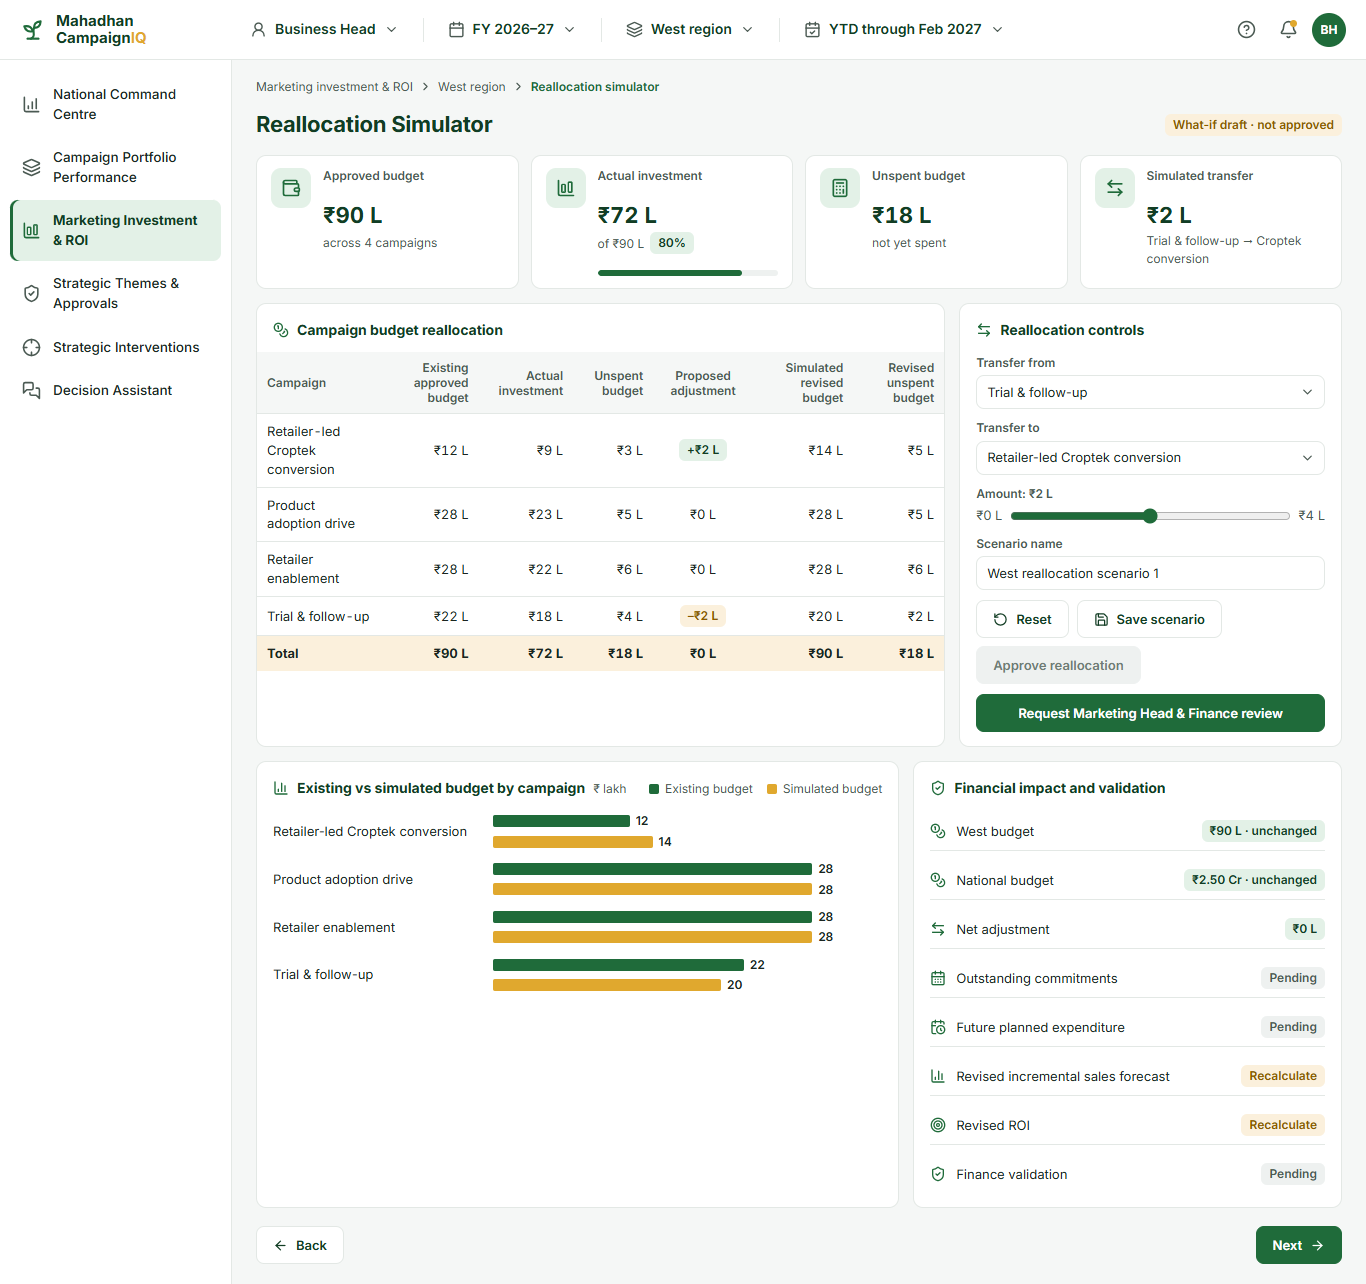
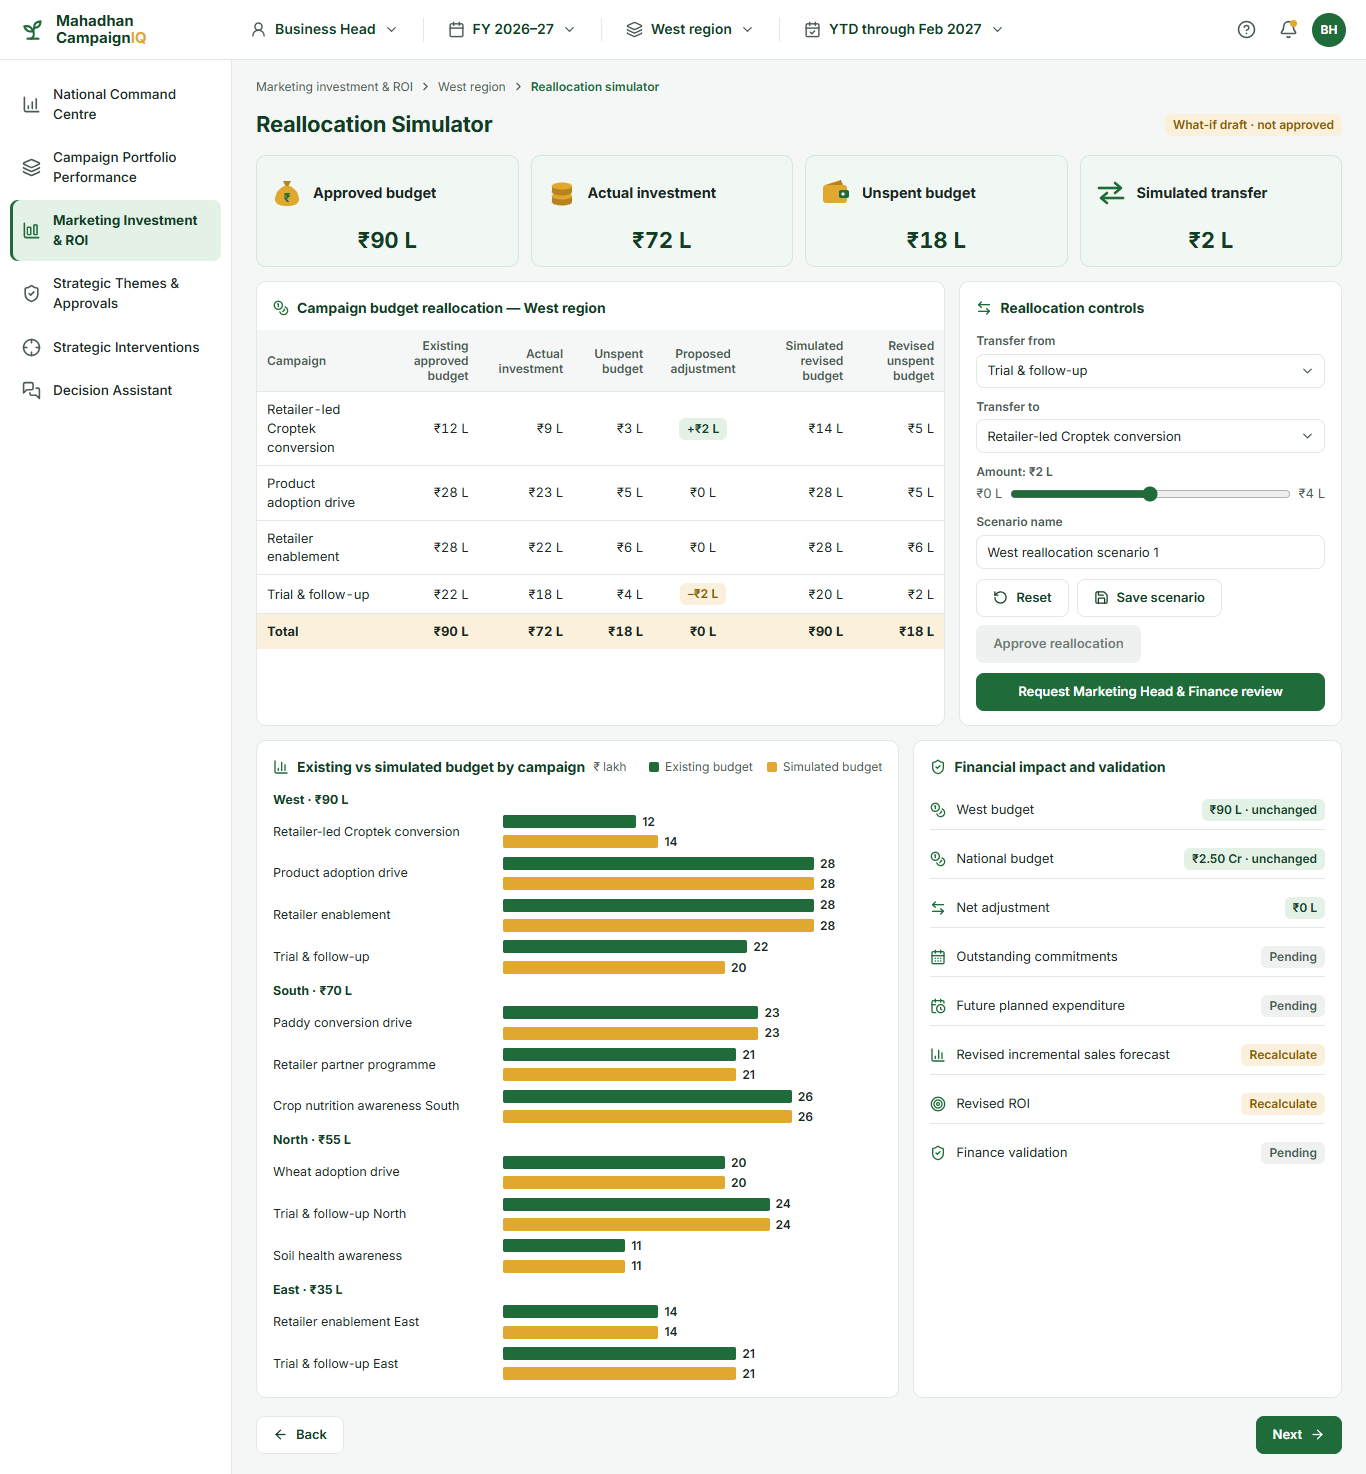
BH: reallocation across all regions

diff --git a/campaigniq-v3/src/screens/Investment.tsx b/campaigniq-v3/src/screens/Investment.tsx
@@ -2,20 +2,20 @@
  * Screens 7–10 — Marketing Investment & ROI (BH.3a.png), Campaign Investment (BH.3b.png),
  * Commercial Returns (BH.3d.png), Reallocation Simulator (BH.3e.png).
  */
-import { ArrowLeftRight, CalendarClock, CalendarDays, ChartColumn, Coins, FileSearch, Percent, RotateCcw, Save, Scale, ShieldCheck, ShoppingCart, Target, TrendingUp, Users } from 'lucide-react';
+import { ArrowLeftRight, ChevronDown, CalendarClock, CalendarDays, ChartColumn, Coins, FileSearch, Percent, RotateCcw, Save, Scale, ShieldCheck, ShoppingCart, Target, TrendingUp, Users } from 'lucide-react';
 import { useState, type ReactNode } from 'react';
 import { useSearchParams } from 'react-router-dom';
 import {
   businessCase, CAMPAIGNS, nationalReturns, netRoi, regionRoi, campaignById, campaignMetrics, campaignsOf, campaignTotals, CROP_MIX, DEFAULT_REALLOCATION, NATIONAL, NATIONAL_METRICS,
-  PRODUCT_MIX, REGIONS, regionById, regionMetrics, THEMES, type Campaign, type CampaignId, type MixRow, type RegionId,
+  PRODUCT_MIX, ALL_CAMPAIGNS, planCampaign, planCampaignsOf, type PlanCampaign, REGIONS, regionById, regionMetrics, THEMES, type CampaignId, type MixRow, type RegionId,
 } from '../data/bh';
 import { crore, lakh, num, pct, rupees, sum, times } from '../data/format';
 import { R } from '../routes';
 import { useBhStore } from '../store/bhStore';
 import { RegionBarsCard } from './RegionBars';
 import { SERIES } from '../theme';
-import { GroupedBars, HBars, Legend, Waterfall } from '../ui/charts';
-import { Bar, Breadcrumb, Button, Card, FilterBar, FooterBar, KpiCard, PageHeader, SegmentedControl, Select, StatusChip } from '../ui/core';
+import { GroupedBars, Legend, Waterfall } from '../ui/charts';
+import { Bar, Breadcrumb, Button, Card, FilterBar, FooterBar, KpiCard, PageHeader, SegmentedControl, StatusChip } from '../ui/core';
 import { DataTable } from '../ui/DataTable';
 import { EvidenceDrawer, type Evidence } from '../ui/overlay';
 import { ALL, CAMPAIGN_OPTIONS, CROP_OPTIONS, PRODUCT_OPTIONS, REGION_OPTIONS, THEME_OPTIONS, useDrillRegion, useGo, useRouteRegion, useScopeFilter } from './common';
@@ -311,25 +311,39 @@ export function CommercialReturns() {
 export function Reallocation() {
   const go = useGo();
   const store = useBhStore();
-  const region = useRouteRegion();
-  const r = regionById(region);
-  const camps = campaignsOf(region);
-  const saved = store.scenarios.find((s) => s.region === region);
-  const start = saved ?? { ...DEFAULT_REALLOCATION, region, name: `${r.name} reallocation scenario 1` };
-  const [from, setFrom] = useState<CampaignId>(start.from);
-  const [to, setTo] = useState<CampaignId>(start.to);
+  const routeRegion = useRouteRegion();
+  const unspentOf = (c: PlanCampaign) => c.approved - c.actual;
+  const defaultsFor = (rg: RegionId) => {
+    if (rg === DEFAULT_REALLOCATION.region) return { from: DEFAULT_REALLOCATION.from as string, to: DEFAULT_REALLOCATION.to as string, amount: DEFAULT_REALLOCATION.amount };
+    const cs = planCampaignsOf(rg);
+    return { from: cs[0].id, to: cs[1].id, amount: Math.min(2, unspentOf(cs[0])) };
+  };
+  const saved = store.scenarios.find((s) => s.region === routeRegion);
+  const start = saved ?? defaultsFor(routeRegion);
+  const [from, setFrom] = useState<string>(start.from);
+  const [to, setTo] = useState<string>(start.to);
   const [amount, setAmount] = useState(start.amount);
-  const [name, setName] = useState(saved?.name ?? `${r.name} reallocation scenario 1`);
-  if (!camps.length) return <div className="page"><PageHeader title="Reallocation Simulator" /><StatusChip tone="neutral">Campaign-level records pending</StatusChip><FooterBar onBack={() => go(R.returns(region))} onNext={() => go(R.opportunity)} /></div>;
+  const [name, setName] = useState(saved?.name ?? `${regionById(routeRegion).name} reallocation scenario 1`);
+  const [hover, setHover] = useState<{ text: string; top: number } | null>(null);
 
-  const maxMove = campaignMetrics(campaignById(from)).unspent;
+  const fromC = planCampaign(from);
+  const region = fromC.region; // the table, checks and totals follow the selected campaigns' region
+  const r = regionById(region);
+  const camps = planCampaignsOf(region);
+  const maxMove = unspentOf(fromC);
   const amt = Math.min(amount, maxMove);
-  const adj = (c: Campaign) => (c.id === to && from !== to ? amt : c.id === from && from !== to ? -amt : 0);
-  const rows = camps.map((c) => ({ c, adj: adj(c), revised: c.approved + adj(c), revisedUnspent: campaignMetrics(c).unspent + adj(c) }));
-  const t = campaignTotals(region);
+  const valid = to !== from && planCampaign(to).region === region;
+  const adjOf = (c: PlanCampaign) => (!valid ? 0 : c.id === to ? amt : c.id === from ? -amt : 0);
+  const rows = camps.map((c) => ({ c, adj: adjOf(c), revised: c.approved + adjOf(c), revisedUnspent: unspentOf(c) + adjOf(c) }));
+  const t = { approved: sum(camps, (c) => c.approved), actual: sum(camps, (c) => c.actual), unspent: sum(camps, unspentOf) };
   const net = sum(rows, (x) => x.adj);
-  const opts = camps.map((c) => ({ value: c.id, label: c.name }));
-  const reset = () => { setFrom(DEFAULT_REALLOCATION.from); setTo(DEFAULT_REALLOCATION.to); setAmount(DEFAULT_REALLOCATION.amount); setName(`${r.name} reallocation scenario 1`); };
+  const pickFrom = (id: string) => {
+    const c = planCampaign(id);
+    setFrom(id);
+    setAmount((a) => Math.min(a, unspentOf(c)));
+    if (planCampaign(to).region !== c.region || to === id) setTo(planCampaignsOf(c.region).find((x) => x.id !== id)!.id);
+  };
+  const reset = () => { const d = defaultsFor(region); setFrom(d.from); setTo(d.to); setAmount(d.amount); setName(`${r.name} reallocation scenario 1`); };
   const save = () => { store.saveScenario({ id: `${region}-scenario`, name, region, from, to, amount: amt }); store.toast(`Scenario "${name}" saved`); };
   const request = () => {
     save();
@@ -338,6 +352,27 @@ export function Reallocation() {
     go(`${R.tracker}?selected=reallocation`);
   };
   const adjChip = (v: number) => (v > 0 ? <StatusChip tone="ok">+{lakh(v)}</StatusChip> : v < 0 ? <StatusChip tone="warn">–{lakh(-v)}</StatusChip> : lakh(0));
+  const campaignSelect = (label: string, value: string, onChange: (v: string) => void, disabledFor: (c: PlanCampaign) => boolean) => (
+    <label className="field"><span>{label}</span>
+      <div className="select">
+        <select aria-label={label} value={value} onChange={(e) => onChange(e.target.value)}>
+          {REGIONS.map((rg) => (
+            <optgroup key={rg.id} label={`${rg.name} region`}>
+              {planCampaignsOf(rg.id).map((c) => <option key={c.id} value={c.id} disabled={disabledFor(c)}>{c.name}</option>)}
+            </optgroup>
+          ))}
+        </select>
+        <ChevronDown size={15} />
+      </div>
+    </label>
+  );
+
+  // Chart: all 12 campaigns grouped by region; the scope region's group first.
+  const scope = store.scope === 'national' ? region : store.scope;
+  const groups = [...REGIONS].sort((a, b) => (a.id === scope ? -1 : b.id === scope ? 1 : 0));
+  const simulated = (c: PlanCampaign) => c.approved + adjOf(c);
+  const maxBar = Math.max(...ALL_CAMPAIGNS.map((c) => Math.max(c.approved, simulated(c))));
+  const signed = (v: number) => (v > 0 ? `+${lakh(v)}` : v < 0 ? `–${lakh(-v)}` : lakh(0));
 
   return (
     <div className="page">
@@ -347,16 +382,16 @@ export function Reallocation() {
         <KpiCard label="Approved budget" value={lakh(t.approved)} />
         <KpiCard label="Actual investment" value={lakh(t.actual)} />
         <KpiCard label="Unspent budget" value={lakh(t.unspent)} />
-        <KpiCard label="Simulated transfer" value={lakh(from === to ? 0 : amt)} />
+        <KpiCard label="Simulated transfer" value={lakh(valid ? amt : 0)} />
       </div>
       <div className="grid" style={{ gridTemplateColumns: 'minmax(0, 1.8fr) minmax(0, 1fr)' }}>
-        <Card title="Campaign budget reallocation" icon={Coins} flush>
+        <Card title={`Campaign budget reallocation — ${r.name} region`} icon={Coins} flush>
           <DataTable rows={rows} rowKey={(x) => x.c.id}
             columns={[
               { key: 'n', header: 'Campaign', render: (x) => x.c.name },
               { key: 'ap', header: 'Existing approved budget', align: 'right', render: (x) => lakh(x.c.approved) },
               { key: 'ac', header: 'Actual investment', align: 'right', render: (x) => lakh(x.c.actual) },
-              { key: 'un', header: 'Unspent budget', align: 'right', render: (x) => lakh(campaignMetrics(x.c).unspent) },
+              { key: 'un', header: 'Unspent budget', align: 'right', render: (x) => lakh(unspentOf(x.c)) },
               { key: 'ad', header: 'Proposed adjustment', align: 'center', render: (x) => adjChip(x.adj) },
               { key: 'rb', header: 'Simulated revised budget', align: 'right', render: (x) => lakh(x.revised) },
               { key: 'ru', header: 'Revised unspent budget', align: 'right', render: (x) => lakh(x.revisedUnspent) },
@@ -365,21 +400,36 @@ export function Reallocation() {
           />
         </Card>
         <Card title="Reallocation controls" icon={ArrowLeftRight}>
-          <label className="field"><span>Transfer from</span><Select label="Transfer from" value={from} options={opts} onChange={(v) => { setFrom(v as CampaignId); setAmount((a) => Math.min(a, campaignMetrics(campaignById(v as CampaignId)).unspent)); }} /></label>
-          <label className="field"><span>Transfer to</span><Select label="Transfer to" value={to} options={opts.filter((o) => o.value !== from)} onChange={(v) => setTo(v as CampaignId)} /></label>
+          {campaignSelect('Transfer from', from, pickFrom, () => false)}
+          {campaignSelect('Transfer to', to, setTo, (c) => c.region !== region || c.id === from)}
           <label className="field"><span>Amount: {lakh(amt)}</span>
             <div className="row"><span className="muted">{lakh(0)}</span><input type="range" min={0} max={maxMove} step={0.5} value={amt} onChange={(e) => setAmount(Number(e.target.value))} style={{ flex: 1, accentColor: 'var(--brand)' }} aria-label="Transfer amount" /><span className="muted">{lakh(maxMove)}</span></div>
           </label>
           <label className="field"><span>Scenario name</span><input className="input" value={name} onChange={(e) => setName(e.target.value)} /></label>
           <div className="row" style={{ marginTop: 'auto', flexWrap: 'wrap' }}><Button icon={RotateCcw} onClick={reset}>Reset</Button><Button icon={Save} onClick={save}>Save scenario</Button><Button disabled title="Finance validation pending">Approve reallocation</Button></div>
-          <Button primary onClick={from !== to && amt > 0 ? request : undefined}>Request Marketing Head &amp; Finance review</Button>
+          <Button primary onClick={valid && amt > 0 ? request : undefined}>Request Marketing Head &amp; Finance review</Button>
         </Card>
       </div>
       <div className="grid" style={{ gridTemplateColumns: 'minmax(0, 1.5fr) minmax(0, 1fr)' }}>
         <Card title="Existing vs simulated budget by campaign" note="₹ lakh" icon={ChartColumn} right={<Legend series={[{ key: 'e', label: 'Existing budget', color: SERIES.planned }, { key: 's', label: 'Simulated budget', color: SERIES.observed }]} />}>
-          <HBars rows={rows.map((x) => ({ label: x.c.name, values: [x.c.approved, x.revised] }))}
-            series={[{ key: 'e', label: 'Existing', color: SERIES.planned }, { key: 's', label: 'Simulated', color: SERIES.observed }]}
-            max={Math.max(...rows.map((x) => Math.max(x.c.approved, x.revised)))} format={(v) => String(v)} labelWidth={210} />
+          <div style={{ flex: 1, display: 'flex', flexDirection: 'column', justifyContent: 'space-between', gap: 6, position: 'relative' }} onMouseLeave={() => setHover(null)}>
+            {groups.map((g) => (
+              <div key={g.id} style={{ display: 'flex', flexDirection: 'column', gap: 4 }}>
+                <b className="strong" style={{ fontSize: 12.5 }}>{g.name} · {lakh(sum(planCampaignsOf(g.id), (c) => c.approved))}</b>
+                {planCampaignsOf(g.id).map((c) => (
+                  <div key={c.id} className="hbar" style={{ ['--label-w' as string]: '220px', cursor: 'default' }}
+                    onMouseEnter={(e) => setHover({ text: `${c.name} · Existing ${lakh(c.approved)} · Simulated ${lakh(simulated(c))} · Change ${signed(simulated(c) - c.approved)}`, top: (e.currentTarget as HTMLElement).offsetTop })}>
+                    <span style={{ fontSize: 12.5 }}>{c.name}</span>
+                    <div className="tracks">
+                      <div className="track"><i style={{ width: `${(c.approved / maxBar) * 82}%`, height: 13, background: SERIES.planned }} /><b>{c.approved}</b></div>
+                      <div className="track"><i style={{ width: `${(simulated(c) / maxBar) * 82}%`, height: 13, background: SERIES.observed }} /><b>{simulated(c)}</b></div>
+                    </div>
+                  </div>
+                ))}
+              </div>
+            ))}
+            {hover && <div className="toast" style={{ position: 'absolute', right: 0, top: Math.max(0, hover.top - 40), background: 'var(--card)', color: 'var(--ink)', border: '1px solid var(--line)', pointerEvents: 'none' }}>{hover.text}</div>}
+          </div>
         </Card>
         <Card title="Financial impact and validation" icon={ShieldCheck}>
           <StatusList items={[

diff --git a/campaigniq-v3/src/data/bh.ts b/campaigniq-v3/src/data/bh.ts
@@ -433,3 +433,22 @@ export const nextYearPriorities = () => {
 
 export const INTERVENTION_DELIVERABLES = ['Campaign performance diagnosis', 'Territory-wise recovery opportunities', 'Revised strategic intervention plan', 'Updated outcome and investment forecast'];
 export const THEME_DELIVERABLES = ['Market opportunity validation', 'Existing theme overlap assessment', 'Target KPI recommendations', 'Refined strategic theme brief'];
+
+// ---------------------------------------------------------------- campaign budgets, all regions (reallocation)
+/** Budget view of every active campaign (West detail above + the other regions). Sums reconcile to REGIONS and THEMES. */
+export interface PlanCampaign { id: string; region: RegionId; name: string; theme: ThemeId; approved: number; actual: number; adopters: number }
+
+export const ALL_CAMPAIGNS: PlanCampaign[] = [
+  ...CAMPAIGNS.map(({ id, region, name, theme, approved, actual, adopters }) => ({ id, region, name, theme, approved, actual, adopters })),
+  { id: 'paddy', region: 'south', name: 'Paddy conversion drive', theme: 'conversion', approved: 23, actual: 18, adopters: 160 },
+  { id: 'retailer-south', region: 'south', name: 'Retailer partner programme', theme: 'retailer', approved: 21, actual: 16, adopters: 170 },
+  { id: 'awareness-south', region: 'south', name: 'Crop nutrition awareness South', theme: 'awareness', approved: 26, actual: 20, adopters: 160 },
+  { id: 'wheat', region: 'north', name: 'Wheat adoption drive', theme: 'conversion', approved: 20, actual: 14, adopters: 120 },
+  { id: 'trial-north', region: 'north', name: 'Trial & follow-up North', theme: 'trial', approved: 24, actual: 17, adopters: 150 },
+  { id: 'soil-health', region: 'north', name: 'Soil health awareness', theme: 'awareness', approved: 11, actual: 8, adopters: 100 },
+  { id: 'enablement-east', region: 'east', name: 'Retailer enablement East', theme: 'retailer', approved: 14, actual: 10, adopters: 110 },
+  { id: 'trial-east', region: 'east', name: 'Trial & follow-up East', theme: 'trial', approved: 21, actual: 15, adopters: 130 },
+];
+
+export const planCampaign = (id: string) => ALL_CAMPAIGNS.find((c) => c.id === id)!;
+export const planCampaignsOf = (region: RegionId) => ALL_CAMPAIGNS.filter((c) => c.region === region);

diff --git a/campaigniq-v3/src/data/bh.test.ts b/campaigniq-v3/src/data/bh.test.ts
@@ -1,7 +1,7 @@
 import { describe, expect, it } from 'vitest';
 import { sum } from './format';
 import {
-  AMBAD, ambadMetrics, businessCase, CAMPAIGNS, CONTRIBUTION_MARGIN, CROP_MIX, nationalReturns, netRoi, PRODUCT_MIX, regionRoi, campaignMetrics, campaignTotals, initialInterventions, NATIONAL,
+  ALL_CAMPAIGNS, AMBAD, ambadMetrics, businessCase, CAMPAIGNS, planCampaignsOf, CONTRIBUTION_MARGIN, CROP_MIX, nationalReturns, netRoi, PRODUCT_MIX, regionRoi, campaignMetrics, campaignTotals, initialInterventions, NATIONAL,
   NATIONAL_METRICS, REGIONS, regionMetrics, territoriesOf, THEMES, themeCampaigns, themeShares,
 } from './bh';
 
@@ -118,5 +118,19 @@ describe('attributed returns reconcile', () => {
   it('forecasts', () => {
     expect(CAMPAIGNS.map((c) => businessCase(c.id).forecastSales)).toEqual([48, 112, 107, 88]);
     expect(businessCase('croptek').netRoi).toBeCloseTo(0.4, 5);
+  });
+});
+
+describe('all-region campaign budgets reconcile', () => {
+  it('regions, themes and count', () => {
+    expect(ALL_CAMPAIGNS.length).toBe(12);
+    REGIONS.forEach((r) => {
+      const cs = planCampaignsOf(r.id);
+      expect([sum(cs, (c) => c.approved), sum(cs, (c) => c.actual), sum(cs, (c) => c.adopters)]).toEqual([r.approved, r.actual, r.adopters]);
+      expect(cs.length).toBe(r.campaigns);
+    });
+    expect(THEMES.map((t) => [sum(ALL_CAMPAIGNS.filter((c) => c.theme === t.id), (c) => c.actual), sum(ALL_CAMPAIGNS.filter((c) => c.theme === t.id), (c) => c.adopters)]))
+      .toEqual([[64, 720], [48, 460], [50, 420], [28, 260]]);
+    THEMES.forEach((t) => expect(ALL_CAMPAIGNS.filter((c) => c.theme === t.id).length).toBe(themeCampaigns(t.id)));
   });
 });

diff --git a/campaigniq-v3/src/store/bhStore.tsx b/campaigniq-v3/src/store/bhStore.tsx
@@ -3,7 +3,7 @@
  * Holds what users change: scope, theme decisions, interventions, recommendations, scenarios, learning priorities.
  */
 import { createContext, useCallback, useContext, useEffect, useMemo, useState, type ReactNode } from 'react';
-import { initialInterventions, THEME_QUEUE, type CampaignId, type Intervention, type RegionId, type ThemeStatus } from '../data/bh';
+import { initialInterventions, THEME_QUEUE, type Intervention, type RegionId, type ThemeStatus } from '../data/bh';
 
 export type Scope = RegionId | 'national';
 
@@ -30,8 +30,8 @@ export interface Scenario {
   id: string;
   name: string;
   region: RegionId;
-  from: CampaignId;
-  to: CampaignId;
+  from: string;
+  to: string;
   amount: number;
 }
 
